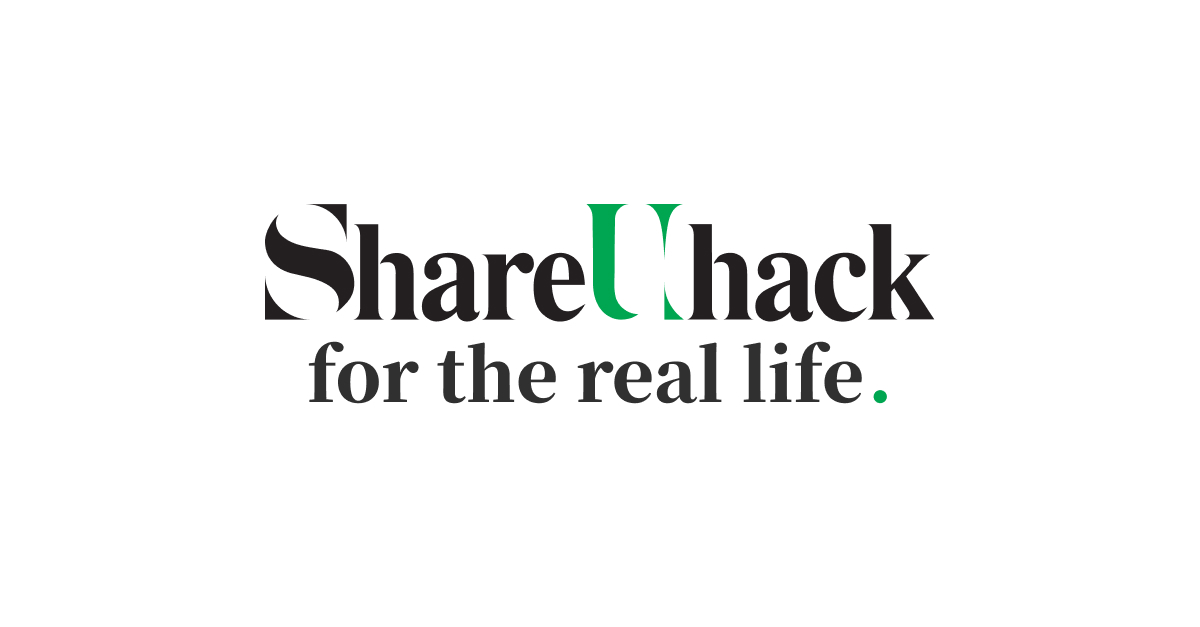
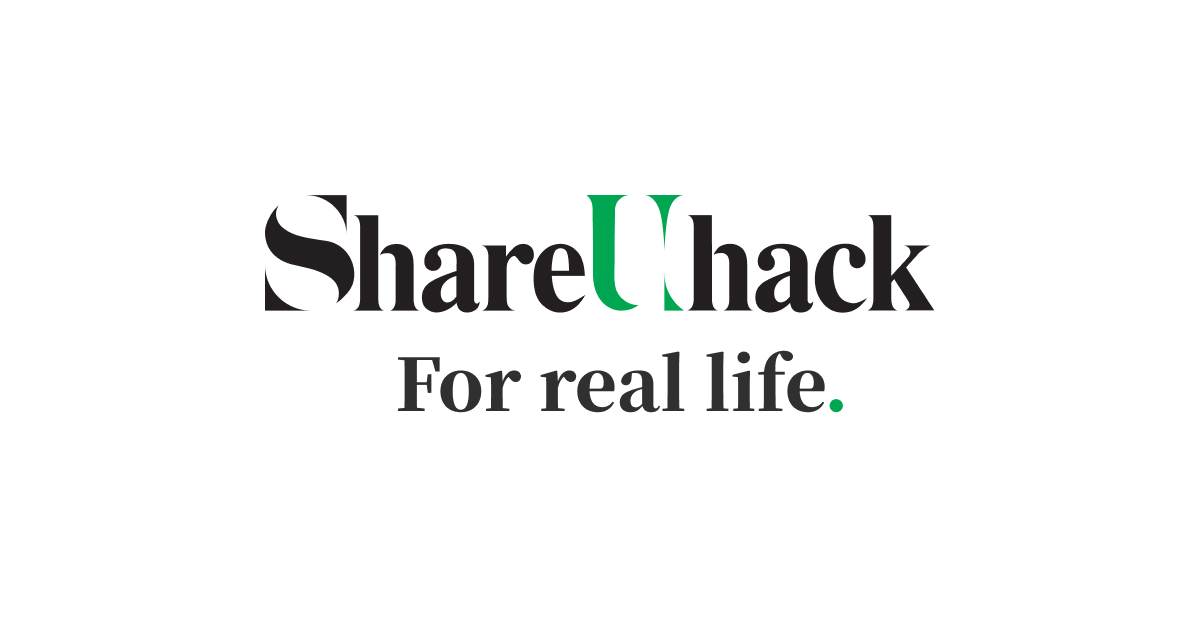
update slogan

diff --git a/src/components/Meta/Meta.tsx b/src/components/Meta/Meta.tsx
@@ -32,7 +32,7 @@ export default function Meta() {
         property="og:url"
         content={locale === 'zh-TW' ? canonicalUrl : process.env.NEXT_PUBLIC_BASE_URL + '/' + locale + asPath}
       />
-      <meta property="og:image:alt" content="Shareuhack- Hacks for the real life" />
+      <meta property="og:image:alt" content="Shareuhack- Hacks for real life" />
       <meta name="twitter:site" content="@shareuhack" />
       <meta name="twitter:creator" content="@shareuhack" />
     </Head>

diff --git a/pages/about.tsx b/pages/about.tsx
@@ -30,7 +30,7 @@ export default function About({ post }) {
           </Typography> */}
           <CoverImage
             title={post.title}
-            alt={'Shareuhack-hacks for the real life'}
+            alt={'Shareuhack-hacks for real life'}
             src={post.coverImage}
             height={isDownMd ? 172 : 627}
             width={isDownMd ? 330 : 1200}

diff --git a/src/components/CommonStructuredData/index.tsx b/src/components/CommonStructuredData/index.tsx
@@ -30,7 +30,7 @@ export default function CommonStructuredData(props: Props) {
       inLanguage: locale || 'en-US',
       name: websiteName,
       url: websiteUrl,
-      about: 'This website shares lifehacks for the real life.',
+      about: 'This website shares lifehacks for real life.',
       description: description,
       keywords,
     }
